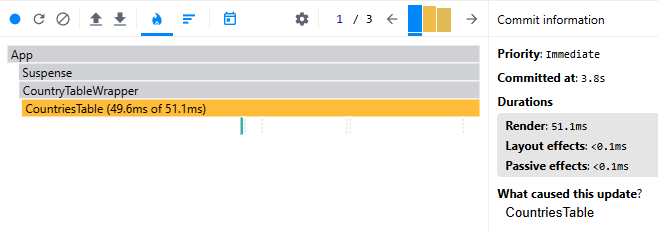
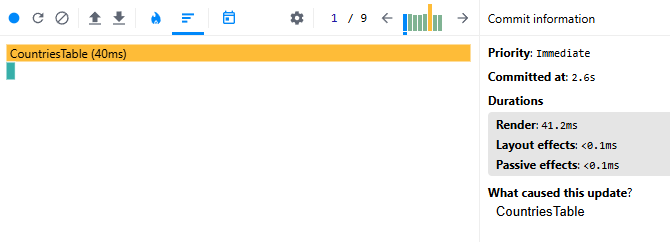
docs: fix error

diff --git a/README.md b/README.md
@@ -31,7 +31,7 @@ Initial profiling was performed using **React DevTools Profiler**.
 ![Profiler Flame Graph](src/assets/flame-search-before.png)
 
 #### Ranked Chart for search
-![Profiler Ranked Chart](src/assets/ranked-search-before.PNG)
+![Profiler Ranked Chart](src/assets/ranked-search-before.png)
 
 ---
 
@@ -81,7 +81,7 @@ Initial profiling was performed using **React DevTools Profiler**.
 ![Profiler Flame Graph](src/assets/flame-search-after.png)
 
 #### Ranked Chart for search
-![Profiler Ranked Chart](src/assets/ranked-search-after.PNG)
+![Profiler Ranked Chart](src/assets/ranked-search-after.png)
 
 ---
 
